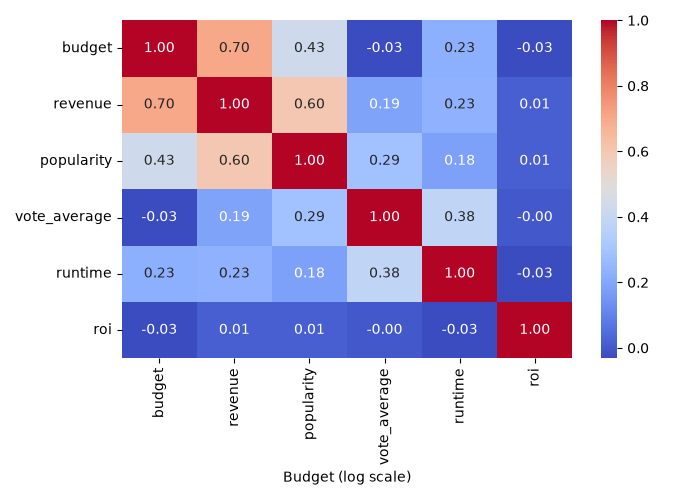
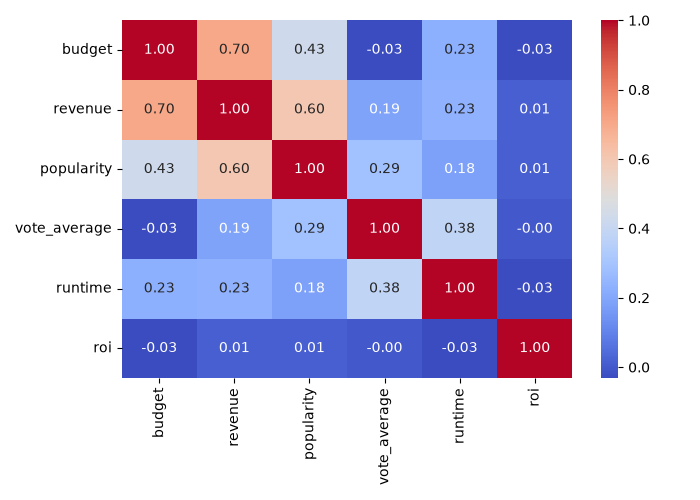
Refactor into analysis.py

diff --git a/analysis.py b/analysis.py
@@ -8,5 +8,86 @@ DATA_PATH = "archive/tmdb_5000_movies.csv"
 os.makedirs("charts", exist_ok = True)
 
 def get_names(text):
-        items = json.loads(text)
-        return[g["name"] for g in items ]
+    items = json.loads(text)
+    return[g["name"] for g in items ]
+
+def load_and_clean(path):
+    df = pd.read_csv(path)
+    mask = (df["budget"] > 10000) & (df["revenue"] > 0)
+    clean = df[mask].copy()
+    clean["profit"] = clean["revenue"] - clean["budget"]
+    clean["roi"] = clean["profit"] / clean["budget"]
+    clean["year"] = pd.to_datetime(clean["release_date"]).dt.year
+    clean["genre_list"] = clean["genres"].apply(get_names)
+    return clean
+
+def build_tables(clean):
+    by_genre = clean.explode("genre_list")
+    genre_stats = by_genre.groupby("genre_list")["roi"].agg(["median", "count"])
+    big_genre = genre_stats[genre_stats["count"]>= 30]
+    mask2 = clean.groupby("year")["roi"].agg(["median","count"])
+    by_year = mask2[mask2["count"]>= 20]    
+    return big_genre, by_year
+
+def build_charts(clean, big_genre, by_year):
+    # chart 1 : median roi by genre
+    big_genre = big_genre.sort_values("median", ascending = True)
+    fig, ax = plt.subplots(figsize =(8,6))
+    ax.barh(big_genre.index, big_genre["median"])  # name then values 
+    ax.set_title("Median ROI by genre")
+    ax.set_xlabel("Median ROI (profit / budget)")   # stops the label from being cut off
+    fig.tight_layout()
+    fig.savefig("charts/genre_roi.png")
+    plt.close(fig)
+
+    # chart 2: median roi by year
+    by_year = by_year.sort_index()
+    fig, ax = plt.subplots(figsize =(8,5))
+    ax.plot(by_year.index, by_year["median"], marker="o")
+    ax.axhline(clean["roi"].median(), linestyle = "--", color ="red", label = "Overall median")
+    ax.set_title("Median ROI by year")
+    ax.set_xlabel("Year")
+    ax.set_ylabel("Median ROI (profit / budget)")
+    ax.legend()
+    fig.tight_layout()
+    fig.savefig("charts/roi_by_year.png")
+    plt.close(fig)
+
+
+    roi_small = clean[clean["roi"] < 10]
+    
+
+    # chart 4 histogram
+    fig, ax = plt.subplots(figsize = (8,5))
+    sns.histplot(data = roi_small, x = "roi", bins = 40, ax = ax)
+    ax.set_title("Distribution of ROI (movies under 10x)")
+    ax.set_xlabel("ROI (profit / budget)")
+    ax.set_ylabel("Number of movies")
+    fig.tight_layout()
+    fig.savefig("charts/roi_hist.png")
+    plt.close(fig)
+
+    # chart 5 scatterplot
+    fig, ax = plt.subplots(figsize = (6,4))
+    sns.scatterplot(data = clean, x = "budget", y = "revenue", alpha = 0.5, ax = ax)
+    ax.set_xscale("log")
+    ax.set_yscale("log")
+    ax.set_title("Budget vs Revenue scatterplot")
+    ax.set_ylabel("Revenue (log scale)")
+    ax.set_xlabel("Budget (log scale)")
+    fig.tight_layout()
+    fig.savefig("charts/budget_vs_revenue.png")  
+    plt.close(fig)
+
+    # chart 6 correlation table
+    corr = clean[["budget", "revenue", "popularity", "vote_average", "runtime", "roi"]].corr()
+    fig, ax = plt.subplots(figsize =(7,5))
+    sns.heatmap(corr, annot = True, fmt = ".2f", cmap = "coolwarm", ax = ax)
+    fig.tight_layout()
+    fig.savefig("charts/correlations.png")
+    plt.close(fig)
+
+clean = load_and_clean(DATA_PATH)
+big_genre, by_year = build_tables(clean)
+build_charts(clean, big_genre, by_year)
+print("Done charts saved in the chart folder.")

diff --git a/tmdb3.py b/tmdb3.py
@@ -73,6 +73,7 @@ plt.show()
 roi_small = clean[clean["roi"] < 10]
 print(len(clean), len(roi_small))
 
+# chart 4 histogram
 fig, ax = plt.subplots(figsize = (8,5))
 sns.histplot(data = roi_small, x = "roi", bins = 40, ax = ax)
 ax.set_title("Distribution of ROI (movies under 10x)")
@@ -82,6 +83,7 @@ fig.tight_layout()
 fig.savefig("charts/roi_hist.png")
 plt.show()
 
+# chart 5 scatterplot
 fig, ax = plt.subplots(figsize = (6,4))
 sns.scatterplot(data = clean, x = "budget", y = "revenue", alpha = 0.5, ax = ax)
 ax.set_xscale("log")
@@ -93,6 +95,7 @@ fig.tight_layout()
 fig.savefig("charts/budget_vs_revenue.png")  
 plt.show()
 
+# chart 6 correlation table
 corr = clean[["budget", "revenue", "popularity", "vote_average", "runtime", "roi"]].corr()
 fig, ax = plt.subplots(figsize =(7,5))
 sns.heatmap(corr, annot = True, fmt = ".2f", cmap = "coolwarm", ax = ax)
